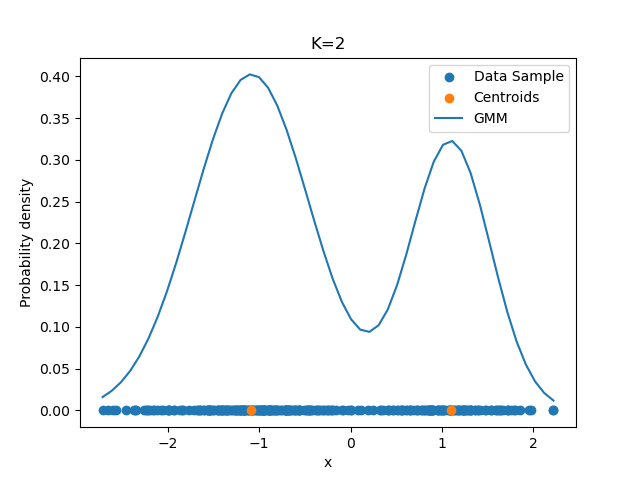
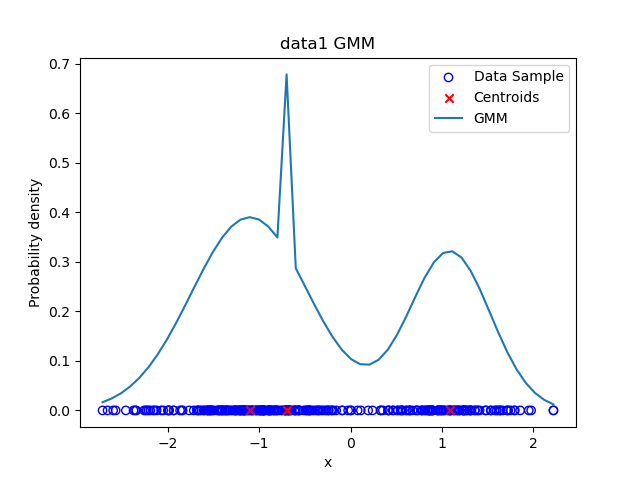
一旦完成

diff --git a/ex7/y_sato/ex7.py b/ex7/y_sato/ex7.py
@@ -1,84 +1,168 @@
 import numpy as np
 import pandas as pd
 import matplotlib.pyplot as plt
-
+from sklearn.cluster import KMeans
 
 class GMM:
-    def __init__(self, data):
+    def __init__(self, data, method):
 
         """
         self.data : input data
         self.mu, self.sig, self.pi_k : 混合ガウス分布のパラメータの行列
-
         """
 
-        self.x = data
-        self.mu = np.array([-3, 11])
-        self.sigma = np.array([4, 5])
-        self.pi = np.array([0.1, 0.9])
-        self.e = 0.01
+        self.data = data
+        self.num = data.shape[0]
+        self.deg = data.shape[1]
+        self.k = 3
+        self.e = 0.001
+
+        if self.deg == 1:
+            if method == "km":
+                model = KMeans(n_clusters=self.k, init="random")
+                model.fit(data)
+                mu = model.cluster_centers_
+        
+            np.random.seed(1)
+            sig = np.random.rand(self.k, 1, 1)
+
+        elif self.deg == 2:
+            if method == "km":
+                model = KMeans(n_clusters=self.k, init="random")
+                model.fit(data)
+                mu = model.cluster_centers_
+            
+            np.random.seed(1)
+            sig = 10 * np.random.rand(self.k, 2, 2) - 5
 
 
-    def gauss(self, x, ave, var):
+        pi = np.zeros(self.k)
+        pi += 1 / self.k
 
-        gauss = np.exp(- pow(( x - ave ), 2) / (2 * var)) / np.sqrt(2 * np.pi * var)
-        return gauss
+        self.mu = mu
+        self.sigma = sig
+        self.pi = pi
+
+
+    def gaus1(self):
+        data = self.data
+        sigma = self.sigma
+        mu = self.mu
+        gaus = np.exp(- pow(( data - mu ), 2) / (2 * sigma)) / np.sqrt(2 * np.pi * sigma)
+
+        return gaus
+
+
+    def gaus(self, data):
+        # 正規分布の値の取得
+        # (N, D) - (k, D) ->(1, N, D) - (k, 1, D) = (k, N, D)
+        self.diff_data = data[np.newaxis, :, :] - self.mu[:, np.newaxis, :]
+        # (k, N, N)
+        tmp = (
+            self.diff_data
+            @ np.linalg.inv(self.sigma)
+            @ self.diff_data.transpose(0, 2, 1)
+        )
+        # 分子
+        nume = np.exp(-np.diagonal(tmp, axis1=1, axis2=2,) / 2.0)
+        # 分母
+        deno = np.sqrt(
+            ((2 * np.pi) ** self.deg) * np.abs(np.linalg.det(self.sigma))
+        ).reshape(-1, 1)
+
+        gaus = nume / deno
+        return gaus
 
 
     def calc_gamma(self):
-        self.gamma = self.pi * self.gauss(self.x, self.mu, self.sigma)
-        self.gamma /= np.sum(self.gamma, axis=1).reshape(len(self.x), 1)
+        # 負担率の計算
+        self.gamma = self.pi.reshape(-1, 1) * self.gaus(self.data)
+        self.gamma /= np.sum(self.gamma, axis=0)
 
 
     def update_params(self):
-        self.N = np.sum(self.gamma, axis=0)
-        self.mu = np.sum(self.x * self.gamma, axis=0) / self.N
-        self.sigma = np.sum(self.gamma * pow(self.x - self.mu, 2), axis=0) / self.N
-        self.pi = self.N / np.sum(self.N)
-
+        # pi, mu, sigmaの更新
+        self.N_k = np.sum(self.gamma, axis=1)
+        self.pi = self.N_k / np.sum(self.N_k)
+        self.mu = np.sum(
+            self.data * self.gamma[:, :, np.newaxis], axis=1) / self.N_k.reshape(-1, 1)
+        self.sigma = (
+            self.gamma[:, np.newaxis, :]
+            * self.diff_data.transpose(0, 2, 1)
+            @ self.diff_data
+        ) / self.N_k.reshape(-1, 1, 1)
+        
 
     def EM(self):
         LF = 0
+        LF_list = []
         while True:
             self.calc_gamma()
             #対数尤度関数
-            LF_new = np.sum(np.log(np.sum(self.pi * self.gauss(self.x, self.mu, self.sigma), axis=1)))
+            LF_new = np.sum(np.log(np.sum(self.pi.reshape(-1, 1) * self.gaus(self.data), axis=0)))
+            LF_list.append(LF_new)
             ch = LF_new - LF
             if np.abs(ch) < self.e:
-                print(self.mu)
-                print(self.sigma)
-                print(self.pi)
+                self.LF_list = LF_list
                 break
             LF = LF_new
+
             self.update_params()
 
 
     def p(self, xline) :
-        x = self.x
+        x = self.data
         px = np.zeros_like(xline)
         mu = self.mu
         sigma = self.sigma
         pi = self.pi
-        for i in range(self.mu.shape[0]):
-            px += pi[i] * np.exp(- pow(( xline - mu[i] ), 2) / (2 * sigma[i])) / np.sqrt(2 * np.pi * sigma[i])
+        px = pi @ self.gaus(xline)
         return px
 
 
-    def scatter1d(self, ax):
-        data_size = self.x.shape[1]
-        x = self.x
-        y = np.zeros_like(x)
-        ax.scatter(x, y, label="Data Sample")
+    def scatter(self, ax):
+        x = self.data[:, 0]
+        if self.deg == 1:
+            y = np.zeros_like(self.data)
+        elif self.deg == 2:
+            y = self.data[:, 1]
+        ax.scatter(x, y, label="Data Sample", facecolor="None", edgecolor="blue")
 
 
-    def plot_gmm(self,ax):
-        y = np.zeros_like(self.mu)
-        ax.scatter(self.mu, y, label="Centroids")
-        x = self.x
-        xline = np.linspace(x.min(), x.max())
-        y = self.p(xline)
-        ax.plot(xline, y, label="GMM")
+    def plot_mu(self, ax):
+        x = self.mu[:, 0]
+        if self.deg == 1:
+            y = np.zeros_like(self.mu)
+        else:
+            y = self.mu[:, 1]
+        ax.scatter(x, y, label="Centroids", marker="x", color="red")
+        
 
+    def plot_gmm(self, ax):
+        self.plot_mu(ax)
+        if self.deg == 1:
+            x = self.data
+            xline = np.array([np.linspace(x.min(), x.max())]).T
+            y = self.p(xline)
+            ax.plot(xline, y, label="GMM")
+
+        elif self.deg == 2:
+            x = self.data[:, 0]
+            y = self.data[:, 1]
+            xx = np.linspace(x.min(), x.max())
+            yy = np.linspace(y.min(), y.max())
+            X, Y = np.meshgrid(xx, yy)
+            lines = np.dstack((X, Y))
+            pos = 0
+            for k in range(self.k):
+                pos += np.array([(self.pi.reshape(-1, 1) * self.gaus(line))[k] for line in lines])
+            plt.contour(X, Y, pos, cmap="rainbow")
+    
+
+    def plot_iter(self, ax):
+        lf = self.LF_list
+        xline = np.arange(len(lf))
+        ax.plot(xline[1:], lf[1:])
 
 
 if __name__ == "__main__":
@@ -87,17 +171,61 @@ if __name__ == "__main__":
     data2 = pd.read_csv('../data/data2.csv').values
     data3 = pd.read_csv('../data/data3.csv').values
 
-    model1 = GMM(data1)
+
+    model1 = GMM(data1, "km")
     model1.EM()
     fig = plt.figure()
     ax = fig.add_subplot()
-
-    model1.scatter1d(ax)
+    model1.scatter(ax)
     model1.plot_gmm(ax)
-
-    ax.set(xlabel="x", ylabel="Probability density", title="K=2")
+    ax.set(xlabel="x", ylabel="Probability density", title="data1 GMM")
     ax.legend()
     plt.show()
     plt.savefig("data1.png")
-    #model2 = GMM(data2)
-    #model3 = GMM(data3)
+
+    fig = plt.figure()
+    ax = fig.add_subplot()
+    model1.plot_iter(ax)
+    ax.set(xlabel="iteration", ylabel="Log Likelihood", title="data1 Lilelihood")
+    plt.show()
+    plt.savefig("data1_LF.png")
+    
+
+    model2 = GMM(data2, "km")
+    model2.EM()
+
+    fig = plt.figure()
+    ax = fig.add_subplot()
+    model2.scatter(ax)
+    model2.plot_gmm(ax)
+    ax.set(xlabel="x", ylabel="y", title="data2 GMM")
+    ax.legend()
+    plt.show()
+    plt.savefig("data2.png")
+    
+    fig = plt.figure()
+    ax = fig.add_subplot()
+    model2.plot_iter(ax)
+    ax.set(xlabel="iteration", ylabel="Log Likelihood", title="data2 Lilelihood")
+    plt.show()
+    plt.savefig("data2_LF.png")
+    
+
+    model3 = GMM(data3, "km")
+    model3.EM()
+    fig = plt.figure()
+    ax = fig.add_subplot()
+    model3.scatter(ax)
+    model3.plot_gmm(ax)
+    ax.set(xlabel="x", ylabel="y", title="data3 GMM")
+    ax.legend()
+    plt.show()
+    plt.savefig("data3.png")
+    
+    fig = plt.figure()
+    ax = fig.add_subplot()
+    model2.plot_iter(ax)
+    ax.set(xlabel="iteration", ylabel="Log Likelihood", title="data3 Lilelihood")
+    plt.show()
+    plt.savefig("data3_LF.png")
+     
